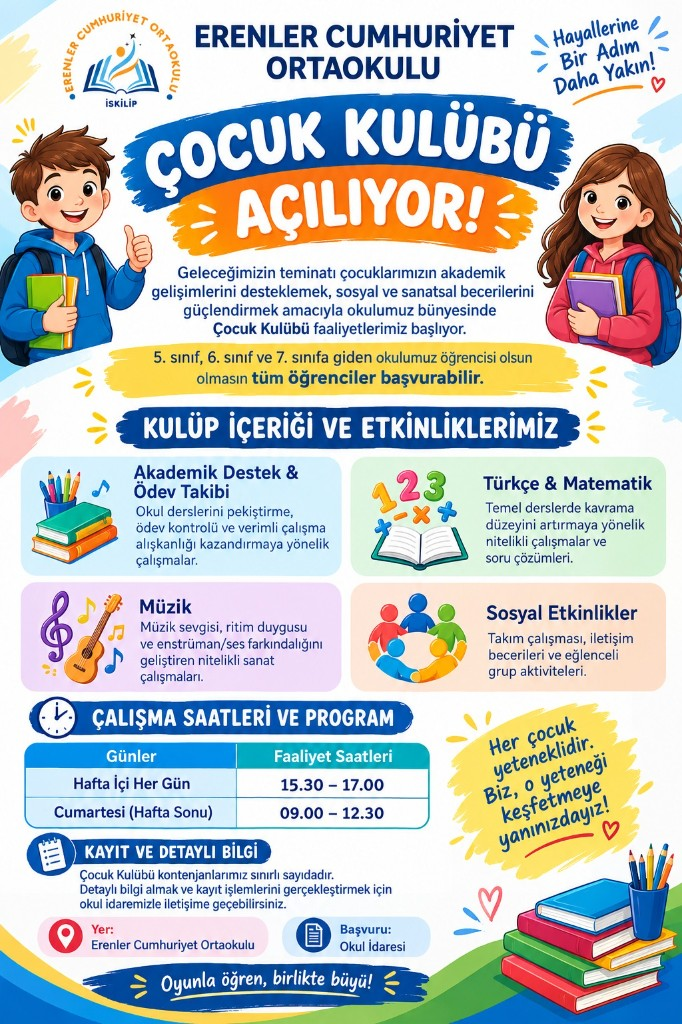
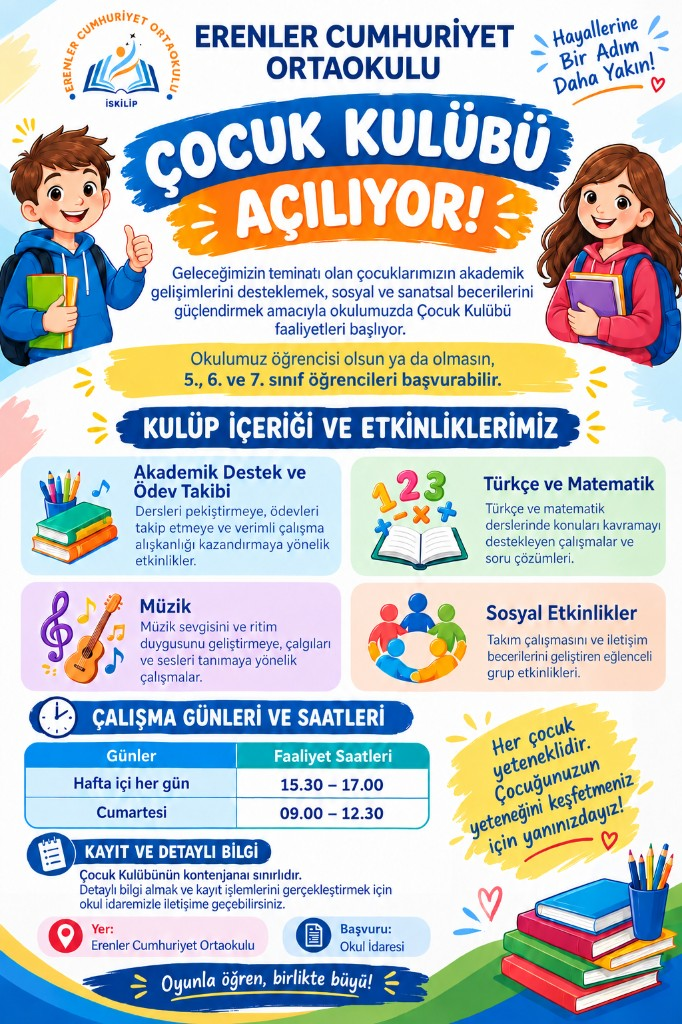
Veli ekranindaki cocuk kulubu gorselini guncelle

diff --git a/templates/veli_panel.html b/templates/veli_panel.html
@@ -226,7 +226,7 @@
 {% if (ogrenci.sinif_adi or '').startswith('5/') or (ogrenci.sinif_adi or '').startswith('6/') or (ogrenci.sinif_adi or '').startswith('7/') %}
 <div id="kulup-duyuru" class="duyuru" hidden>
   <div class="duyuru-kutu">
-    <img src="{{ url_for('static', filename='cocuk-kulubu.jpg') }}" alt="Çocuk Kulübü açılıyor. 5, 6 ve 7. sınıflar başvurabilir.">
+    <img src="{{ url_for('static', filename='cocuk-kulubu.jpg') }}?v=20260930b" alt="Çocuk Kulübü açılıyor. 5, 6 ve 7. sınıflar başvurabilir.">
     <div class="duyuru-alt">
       <label class="duyuru-sec"><input type="checkbox" id="kulup-bir-daha"> Bir daha gösterme</label>
       <button type="button" id="kulup-kapat">Kapat</button>
